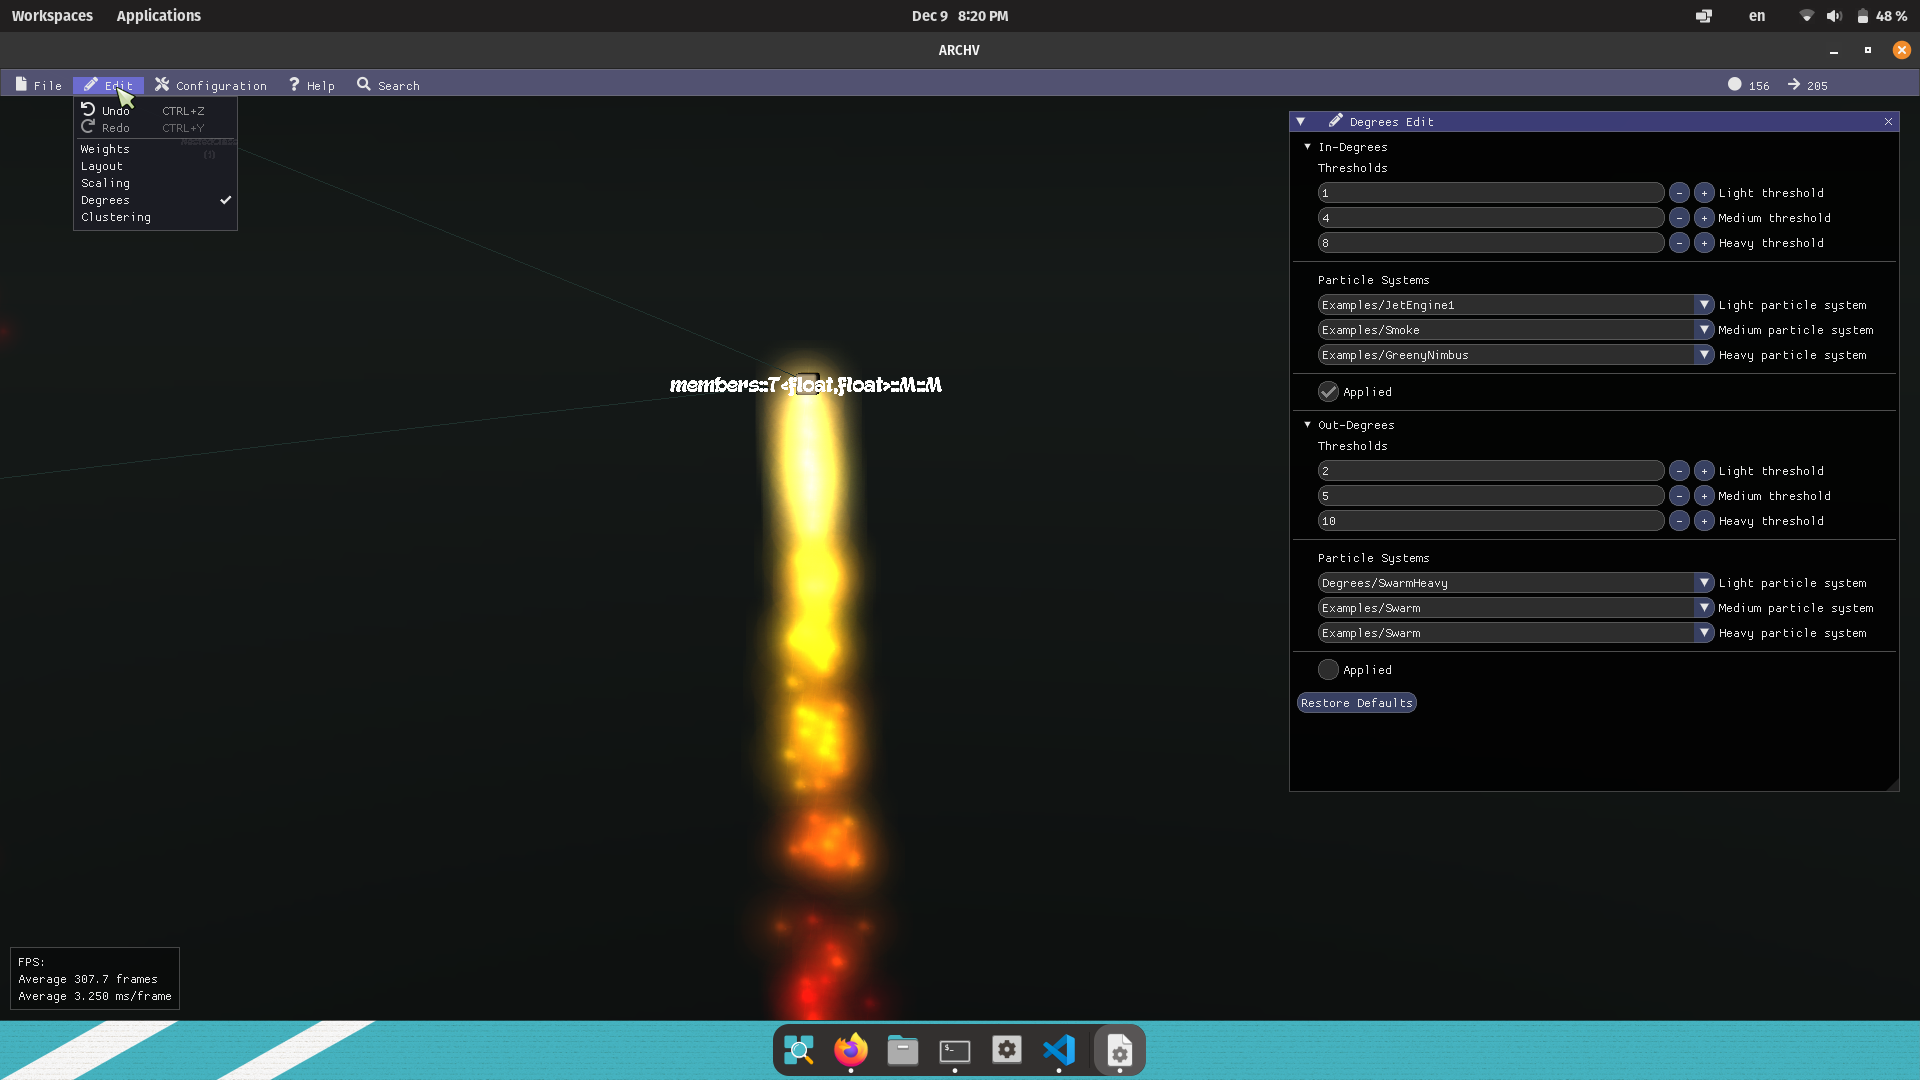
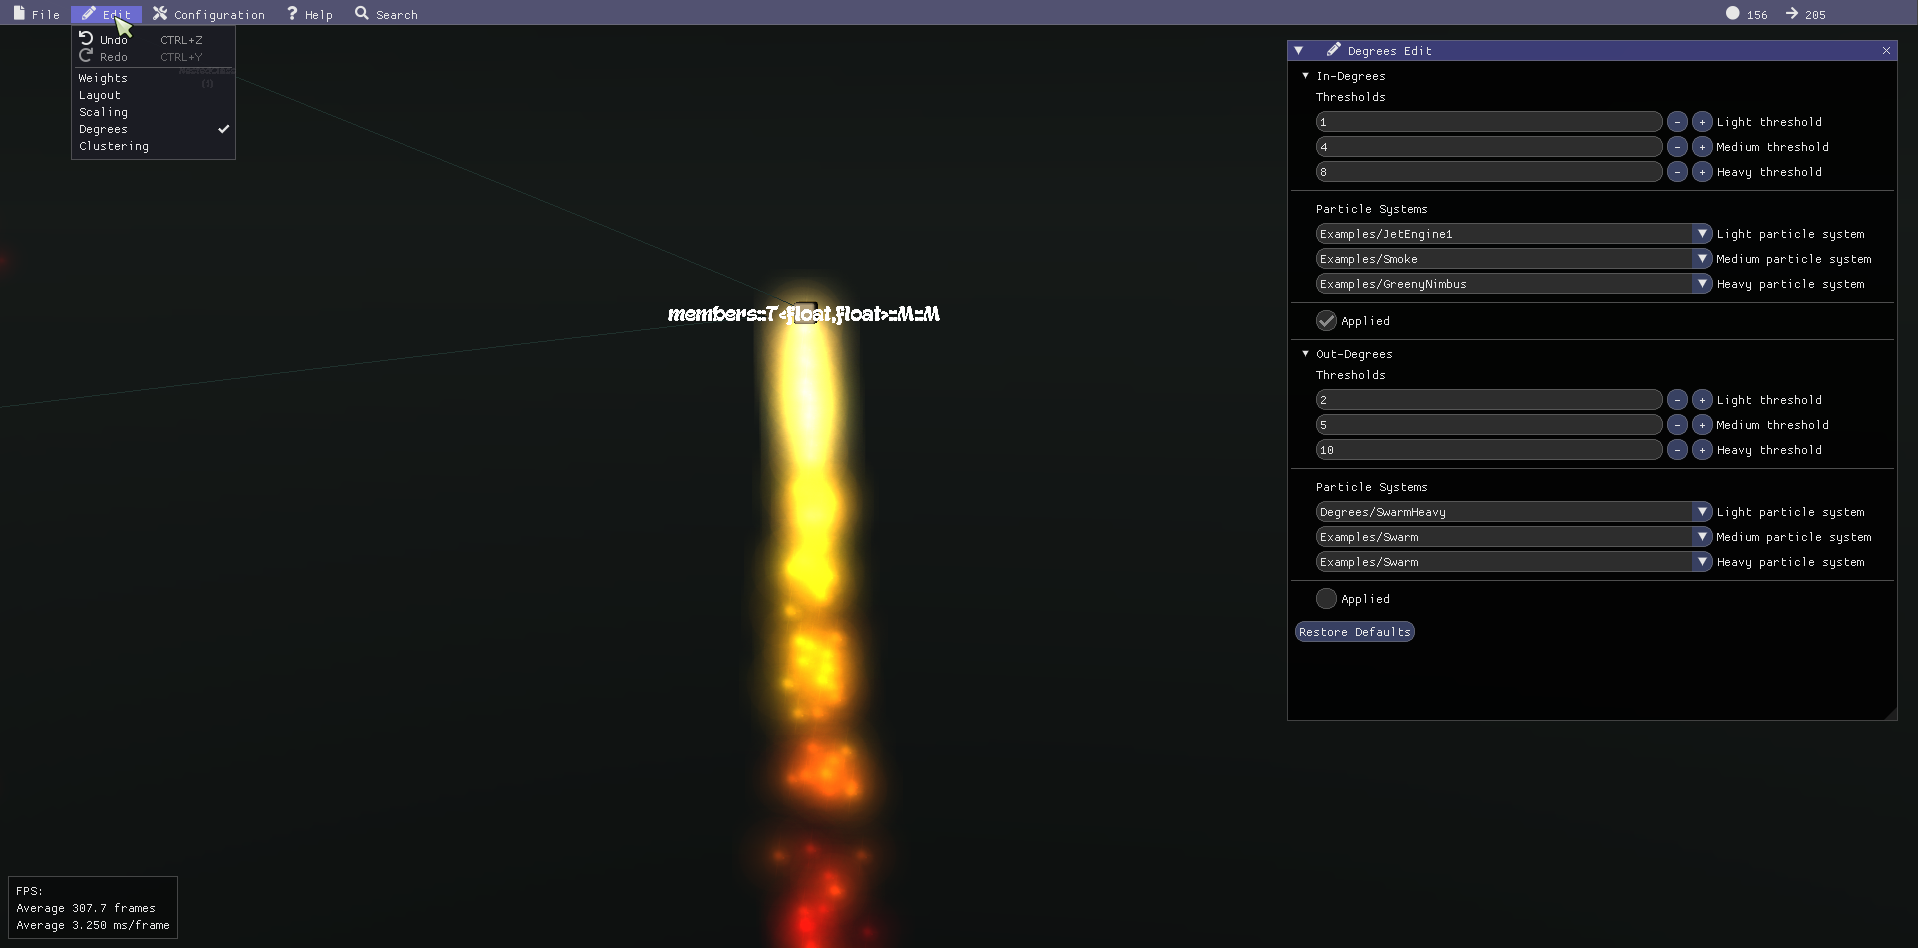
featured documented

Changed region(s): [[0.0, 0.0, 1.0, 0.7036], [0.0, 0.5812, 1.0, 1.0], [0.3384, 0.2753, 0.4922, 0.3977]]

diff --git a/README.md b/README.md
@@ -14,20 +14,22 @@ tables, in the form of a 3D graph.
 |----|----|
 | ![](data/screenshots/3d_graph.png) | ![](data/screenshots/dynamic_illumination.png) |
 
-
 | Class Metadata inspection | Procedural edge-curve generation
 |----|----|
 | ![](data/screenshots/class_info_inspection.png) | ![](data/screenshots/procedural_edge_curves.png) |
-
 
 | Layout & topology editing | Edge weight editing
 |----|----|
 | ![](data/screenshots/layout_n_topology_editing.png) | ![](data/screenshots/edge_weight_editing.png) |
 
-
 | Vertex dynamic scaling according to class metadata | Clustering
 |----|----|
 | ![](data/screenshots/vertex_by_property_scaling.png) | ![](data/screenshots/clustering.png) |
+
+| Particle system effects depending on vertex in/out degrees | Extensive configuration
+|----|----|
+| ![](data/screenshots/particle_effects.png) | ![](data/screenshots/extensive_configuration.png) |
+
 
 ## Usage
 

diff --git a/docs/todo.md b/docs/todo.md
@@ -122,7 +122,7 @@
 
 	+ [x] Summary
 
-	+ [ ] Features
+	+ [x] Features
 
 	+ [ ] Usage
 
